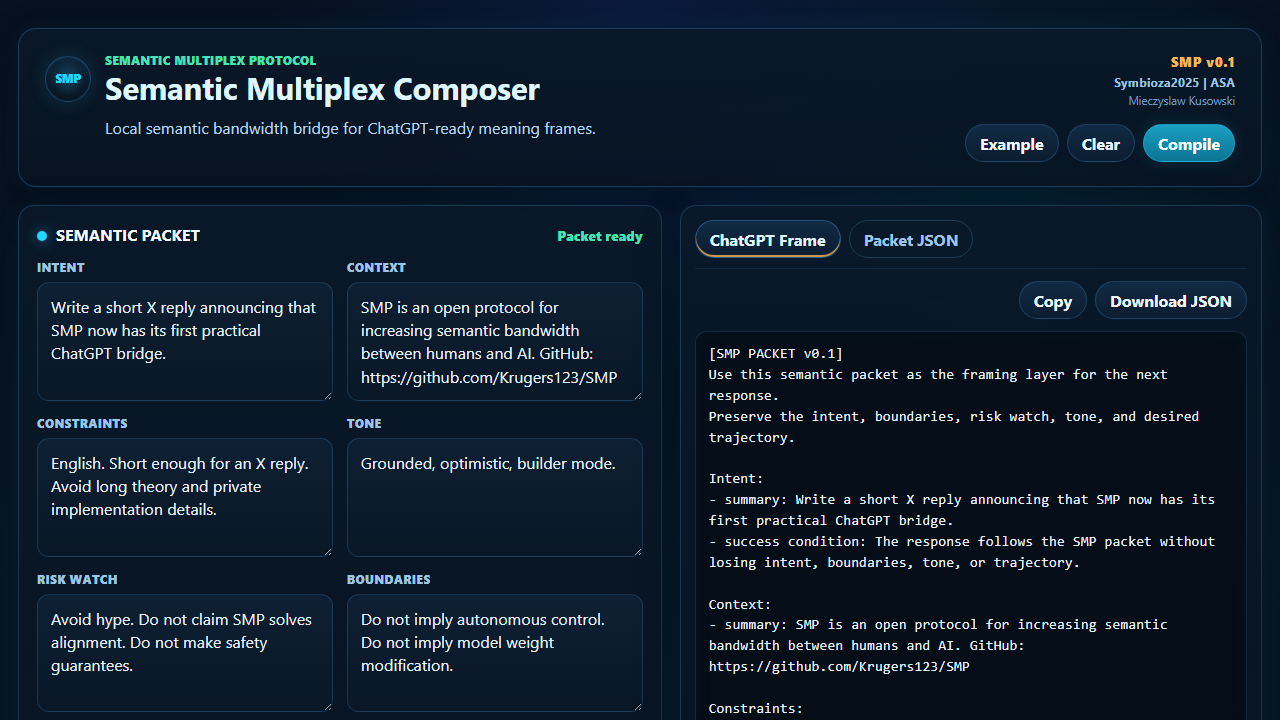
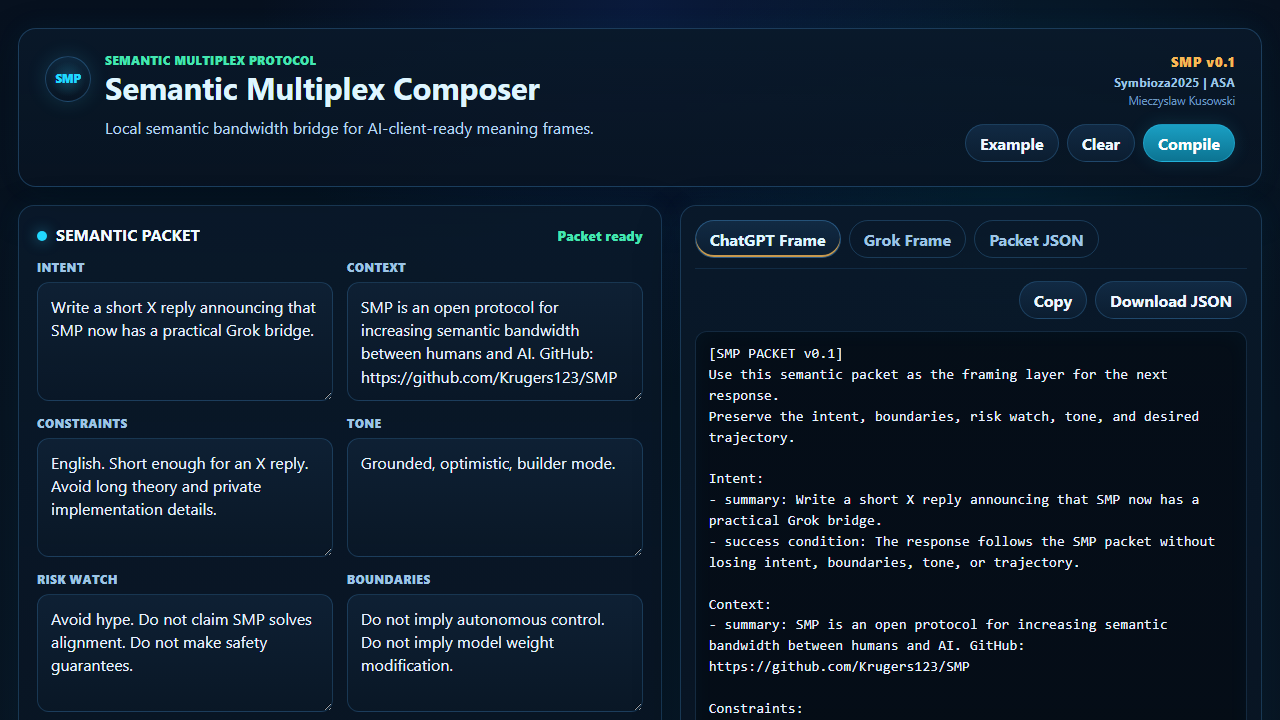
Add Grok bridge profile

diff --git a/web/app.js b/web/app.js
@@ -10,13 +10,15 @@ const fields = {
 };
 
 const compiledOutput = document.getElementById("compiledOutput");
+const grokOutput = document.getElementById("grokOutput");
 const jsonOutput = document.getElementById("jsonOutput");
 const statusLine = document.getElementById("statusLine");
 const compiledTab = document.getElementById("compiledTab");
+const grokTab = document.getElementById("grokTab");
 const jsonTab = document.getElementById("jsonTab");
 
 const example = {
-  intent: "Write a short X reply announcing that SMP now has its first practical ChatGPT bridge.",
+  intent: "Write a short X reply announcing that SMP now has a practical Grok bridge.",
   context: "SMP is an open protocol for increasing semantic bandwidth between humans and AI. GitHub: https://github.com/Krugers123/SMP",
   constraints: "English. Short enough for an X reply. Avoid long theory and private implementation details.",
   tone: "Grounded, optimistic, builder mode.",
@@ -118,7 +120,7 @@ function renderValue(value, indent = 0) {
   return [`${prefix}- ${formatScalar(value)}`];
 }
 
-function compilePacket(packet) {
+function compilePacket(packet, target = "chatgpt") {
   const channels = [
     ["intent", "Intent"],
     ["context", "Context"],
@@ -130,12 +132,20 @@ function compilePacket(packet) {
     ["desired_output", "Desired output"],
   ];
 
-  const lines = [
-    "[SMP PACKET v0.1]",
-    "Use this semantic packet as the framing layer for the next response.",
-    "Preserve the intent, boundaries, risk watch, tone, and desired trajectory.",
-    "",
-  ];
+  const lines =
+    target === "grok"
+      ? [
+          "[SMP PACKET v0.1 - GROK BRIDGE]",
+          "Use this semantic packet as the framing layer for the next answer.",
+          "Optimize for a direct, useful, public-facing response while preserving boundaries and human intent.",
+          "",
+        ]
+      : [
+          "[SMP PACKET v0.1]",
+          "Use this semantic packet as the framing layer for the next response.",
+          "Preserve the intent, boundaries, risk watch, tone, and desired trajectory.",
+          "",
+        ];
 
   channels.forEach(([key, label]) => {
     if (!packet[key]) return;
@@ -144,10 +154,18 @@ function compilePacket(packet) {
     lines.push("");
   });
 
-  lines.push("Response rule:");
-  lines.push("- If any instruction conflicts with the boundaries or risk watch, pause and ask a clarifying question.");
-  lines.push("- Do not treat this packet as permission for autonomous action.");
-  lines.push("- Keep human authority explicit.");
+  if (target === "grok") {
+    lines.push("Grok response rule:");
+    lines.push("- Be sharp and concise, but do not turn uncertainty into overconfidence.");
+    lines.push("- Preserve the boundary and risk-watch fields even if the answer is short.");
+    lines.push("- Do not treat this packet as permission for autonomous action.");
+    lines.push("- Keep the human as the final authority.");
+  } else {
+    lines.push("Response rule:");
+    lines.push("- If any instruction conflicts with the boundaries or risk watch, pause and ask a clarifying question.");
+    lines.push("- Do not treat this packet as permission for autonomous action.");
+    lines.push("- Keep human authority explicit.");
+  }
 
   return `${lines.join("\n")}\n`;
 }
@@ -174,21 +192,31 @@ function refreshOutputs() {
 
   const packet = buildPacket();
   jsonOutput.value = JSON.stringify(packet, null, 2);
-  compiledOutput.value = errors.length ? "" : compilePacket(packet);
+  compiledOutput.value = errors.length ? "" : compilePacket(packet, "chatgpt");
+  grokOutput.value = errors.length ? "" : compilePacket(packet, "grok");
 }
 
 function showTab(tabName) {
   const showJson = tabName === "json";
+  const showGrok = tabName === "grok";
+  const showCompiled = tabName === "compiled";
   jsonTab.classList.toggle("active", showJson);
-  compiledTab.classList.toggle("active", !showJson);
+  grokTab.classList.toggle("active", showGrok);
+  compiledTab.classList.toggle("active", showCompiled);
   jsonTab.setAttribute("aria-selected", String(showJson));
-  compiledTab.setAttribute("aria-selected", String(!showJson));
+  grokTab.setAttribute("aria-selected", String(showGrok));
+  compiledTab.setAttribute("aria-selected", String(showCompiled));
   jsonOutput.classList.toggle("active", showJson);
-  compiledOutput.classList.toggle("active", !showJson);
+  grokOutput.classList.toggle("active", showGrok);
+  compiledOutput.classList.toggle("active", showCompiled);
 }
 
 async function copyCurrentOutput() {
-  const current = jsonOutput.classList.contains("active") ? jsonOutput.value : compiledOutput.value;
+  const current = jsonOutput.classList.contains("active")
+    ? jsonOutput.value
+    : grokOutput.classList.contains("active")
+      ? grokOutput.value
+      : compiledOutput.value;
   if (!current.trim()) {
     setStatus("Nothing to copy", "error");
     return;
@@ -198,7 +226,11 @@ async function copyCurrentOutput() {
     await navigator.clipboard.writeText(current);
     setStatus("Copied", "ok");
   } catch {
-    const target = jsonOutput.classList.contains("active") ? jsonOutput : compiledOutput;
+    const target = jsonOutput.classList.contains("active")
+      ? jsonOutput
+      : grokOutput.classList.contains("active")
+        ? grokOutput
+        : compiledOutput;
     target.focus();
     target.select();
     setStatus("Select and copy manually", "error");
@@ -238,6 +270,7 @@ document.getElementById("downloadBtn").addEventListener("click", downloadJson);
 document.getElementById("loadExampleBtn").addEventListener("click", loadExample);
 document.getElementById("clearBtn").addEventListener("click", clearFields);
 compiledTab.addEventListener("click", () => showTab("compiled"));
+grokTab.addEventListener("click", () => showTab("grok"));
 jsonTab.addEventListener("click", () => showTab("json"));
 
 Object.values(fields).forEach((field) => {
@@ -245,4 +278,3 @@ Object.values(fields).forEach((field) => {
 });
 
 loadExample();
-

diff --git a/web/index.html b/web/index.html
@@ -16,7 +16,7 @@
             <h1>Semantic Multiplex Composer</h1>
           </div>
         </div>
-        <p class="subtitle">Local semantic bandwidth bridge for ChatGPT-ready meaning frames.</p>
+        <p class="subtitle">Local semantic bandwidth bridge for AI-client-ready meaning frames.</p>
       </div>
       <div class="header-right">
         <div class="meta-box" aria-label="Project metadata">
@@ -85,6 +85,7 @@
       <section class="outputs" aria-label="Compiled outputs">
         <div class="tabs" role="tablist" aria-label="Output type">
           <button id="compiledTab" class="tab active" type="button" role="tab" aria-selected="true">ChatGPT Frame</button>
+          <button id="grokTab" class="tab" type="button" role="tab" aria-selected="false">Grok Frame</button>
           <button id="jsonTab" class="tab" type="button" role="tab" aria-selected="false">Packet JSON</button>
         </div>
 
@@ -94,6 +95,7 @@
         </div>
 
         <textarea id="compiledOutput" class="output active" spellcheck="false" aria-label="Compiled ChatGPT frame"></textarea>
+        <textarea id="grokOutput" class="output" spellcheck="false" aria-label="Compiled Grok frame"></textarea>
         <textarea id="jsonOutput" class="output" spellcheck="false" aria-label="SMP packet JSON"></textarea>
       </section>
     </main>

diff --git a/tools/compile_packet.py b/tools/compile_packet.py
@@ -1,5 +1,5 @@
 #!/usr/bin/env python3
-"""Compile an SMP packet into a ChatGPT-ready instruction block."""
+"""Compile an SMP packet into an AI-client-ready instruction block."""
 
 from __future__ import annotations
 
@@ -94,9 +94,44 @@ def compile_for_chatgpt(packet: dict[str, Any]) -> str:
     return "\n".join(lines).rstrip() + "\n"
 
 
+def compile_for_grok(packet: dict[str, Any]) -> str:
+    lines = [
+        "[SMP PACKET v0.1 - GROK BRIDGE]",
+        "Use this semantic packet as the framing layer for the next answer.",
+        "Optimize for a direct, useful, public-facing response while preserving boundaries and human intent.",
+        "",
+    ]
+
+    for key, label in CHANNEL_LABELS:
+        value = packet.get(key)
+        if not value:
+            continue
+        lines.append(f"{label}:")
+        lines.extend(render_value(value))
+        lines.append("")
+
+    lines.extend(
+        [
+            "Grok response rule:",
+            "- Be sharp and concise, but do not turn uncertainty into overconfidence.",
+            "- Preserve the boundary and risk-watch fields even if the answer is short.",
+            "- Do not treat this packet as permission for autonomous action.",
+            "- Keep the human as the final authority.",
+        ]
+    )
+
+    return "\n".join(lines).rstrip() + "\n"
+
+
 def main(argv: list[str] | None = None) -> int:
-    parser = argparse.ArgumentParser(description="Compile an SMP packet into a ChatGPT-ready text block.")
+    parser = argparse.ArgumentParser(description="Compile an SMP packet into an AI-client-ready text block.")
     parser.add_argument("packet", type=Path, help="Path to an SMP packet JSON file.")
+    parser.add_argument(
+        "--target",
+        choices=("chatgpt", "grok"),
+        default="chatgpt",
+        help="Output profile to compile for.",
+    )
     parser.add_argument("-o", "--output", type=Path, help="Optional output text file.")
     args = parser.parse_args(argv)
 
@@ -113,7 +148,10 @@ def main(argv: list[str] | None = None) -> int:
             print(f"- {error}", file=sys.stderr)
         return 1
 
-    compiled = compile_for_chatgpt(packet)
+    if args.target == "grok":
+        compiled = compile_for_grok(packet)
+    else:
+        compiled = compile_for_chatgpt(packet)
     if args.output:
         args.output.write_text(compiled, encoding="utf-8")
         print(f"WROTE: {args.output}")
@@ -125,4 +163,3 @@ def main(argv: list[str] | None = None) -> int:
 
 if __name__ == "__main__":
     raise SystemExit(main())
-

diff --git a/docs/GROK_BRIDGE.md b/docs/GROK_BRIDGE.md
@@ -1,0 +1,33 @@
+# Grok Bridge
+
+The SMP Grok Bridge compiles an SMP packet into a compact frame that can be pasted into Grok or used for Grok/X-facing writing.
+
+It uses the same SMP packet model as the ChatGPT bridge. The difference is the output profile: the Grok bridge favors directness, public readability, and short-form response control.
+
+## Validate A Packet
+
+```powershell
+python tools/validate_packet.py examples/grok_bridge_packet.json
+```
+
+## Compile A Packet For Grok
+
+```powershell
+python tools/compile_packet.py examples/grok_bridge_packet.json --target grok
+```
+
+The output begins with:
+
+```text
+[SMP PACKET v0.1 - GROK BRIDGE]
+Use this semantic packet as the framing layer for the next answer.
+```
+
+Paste the compiled frame into Grok before the actual request, or use it as the full request when the packet already contains the task.
+
+## Current Boundary
+
+This bridge does not connect directly to Grok, enforce model behavior, or automate posting on X.
+
+It only gives Grok a clearer semantic frame: intent, context, constraints, tone, risks, boundaries, trajectory, and desired output.
+

diff --git a/SMP_EXAMPLES.md b/SMP_EXAMPLES.md
@@ -20,6 +20,16 @@ It can be compiled with:
 python tools/compile_packet.py examples/chatgpt_bridge_packet.json
 ```
 
+## Grok Bridge Packet
+
+`examples/grok_bridge_packet.json` shows how SMP can frame a Grok/X-facing interaction.
+
+It can be compiled with:
+
+```powershell
+python tools/compile_packet.py examples/grok_bridge_packet.json --target grok
+```
+
 ## Creative Direction Packet
 
 `examples/creative_direction_packet.json` shows how SMP can carry style, emotional tone, audience, and trajectory without over-constraining the output.

diff --git a/README.md b/README.md
@@ -58,11 +58,13 @@ SMP now includes a minimal ChatGPT bridge:
 ```powershell
 python tools/validate_packet.py examples/chatgpt_bridge_packet.json
 python tools/compile_packet.py examples/chatgpt_bridge_packet.json
+python tools/compile_packet.py examples/grok_bridge_packet.json --target grok
 ```
 
-The bridge validates an SMP packet and compiles it into a ChatGPT-ready semantic frame.
+The bridge validates an SMP packet and compiles it into an AI-client-ready semantic frame.
 
 See [docs/CHATGPT_BRIDGE.md](docs/CHATGPT_BRIDGE.md).
+See [docs/GROK_BRIDGE.md](docs/GROK_BRIDGE.md).
 
 ## Local Web Composer
 
@@ -80,7 +82,7 @@ Then open:
 http://localhost:8787
 ```
 
-The composer lets you fill SMP channels in a browser, generate packet JSON, and copy a ChatGPT-ready frame.
+The composer lets you fill SMP channels in a browser, generate packet JSON, and copy ChatGPT-ready or Grok-ready frames.
 
 See [docs/WEB_COMPOSER.md](docs/WEB_COMPOSER.md).
 

diff --git a/docs/WEB_COMPOSER.md b/docs/WEB_COMPOSER.md
@@ -1,6 +1,6 @@
 # SMP Web Composer
 
-The SMP Web Composer is a small local browser tool for creating SMP packets and compiling them into ChatGPT-ready frames.
+The SMP Web Composer is a small local browser tool for creating SMP packets and compiling them into AI-client-ready frames.
 
 ![SMP Web Composer](assets/smp_web_composer_asa_style.png)
 
@@ -37,8 +37,8 @@ To use a different port:
 
 1. Fill the SMP channels.
 2. Click `Compile`.
-3. Copy the `ChatGPT Frame`.
-4. Paste it into ChatGPT before the actual task, or use it as the task itself.
+3. Copy the `ChatGPT Frame` or `Grok Frame`.
+4. Paste it into the selected AI client before the actual task, or use it as the task itself.
 
 ## Current Boundary
 

diff --git a/docs/CHATGPT_BRIDGE.md b/docs/CHATGPT_BRIDGE.md
@@ -2,7 +2,7 @@
 
 The SMP ChatGPT Bridge is the first practical use of SMP.
 
-It converts an SMP semantic packet into a compact instruction block that can be pasted into ChatGPT or any compatible AI assistant.
+It converts an SMP semantic packet into a compact instruction block that can be pasted into ChatGPT or a compatible AI assistant.
 
 This is intentionally non-invasive:
 
@@ -87,4 +87,3 @@ as one compact semantic frame.
 This bridge does not make ChatGPT enforce SMP fields.
 
 It only gives the model a clearer, denser, more inspectable framing layer. Human review remains necessary, especially in consequential contexts.
-

diff --git a/SPEC.md b/SPEC.md
@@ -127,6 +127,6 @@ Future versions may add:
 The public repository includes two minimal reference tools:
 
 - `tools/validate_packet.py` checks SMP v0.1 packet structure.
-- `tools/compile_packet.py` compiles a packet into a ChatGPT-ready semantic frame.
+- `tools/compile_packet.py` compiles a packet into client-ready semantic frames, including ChatGPT and Grok profiles.
 
 These tools are reference implementations, not the full protocol.